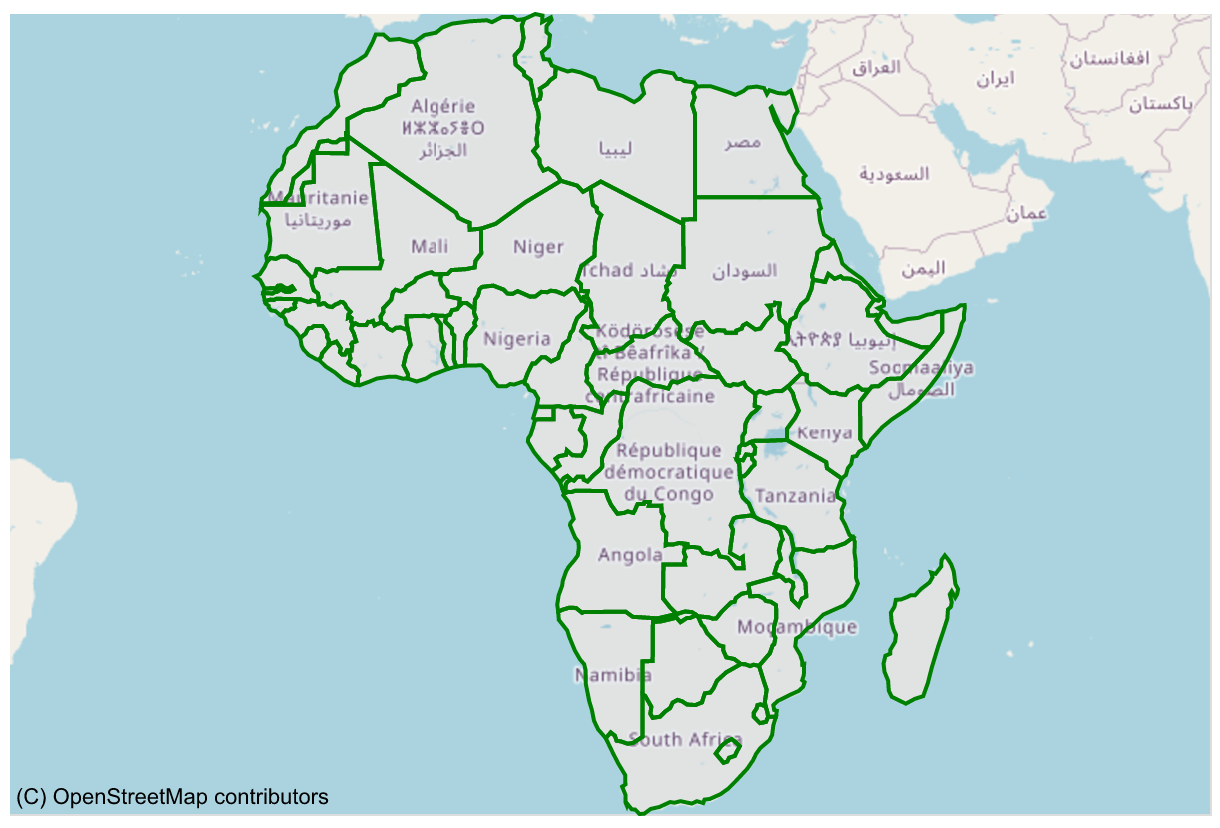
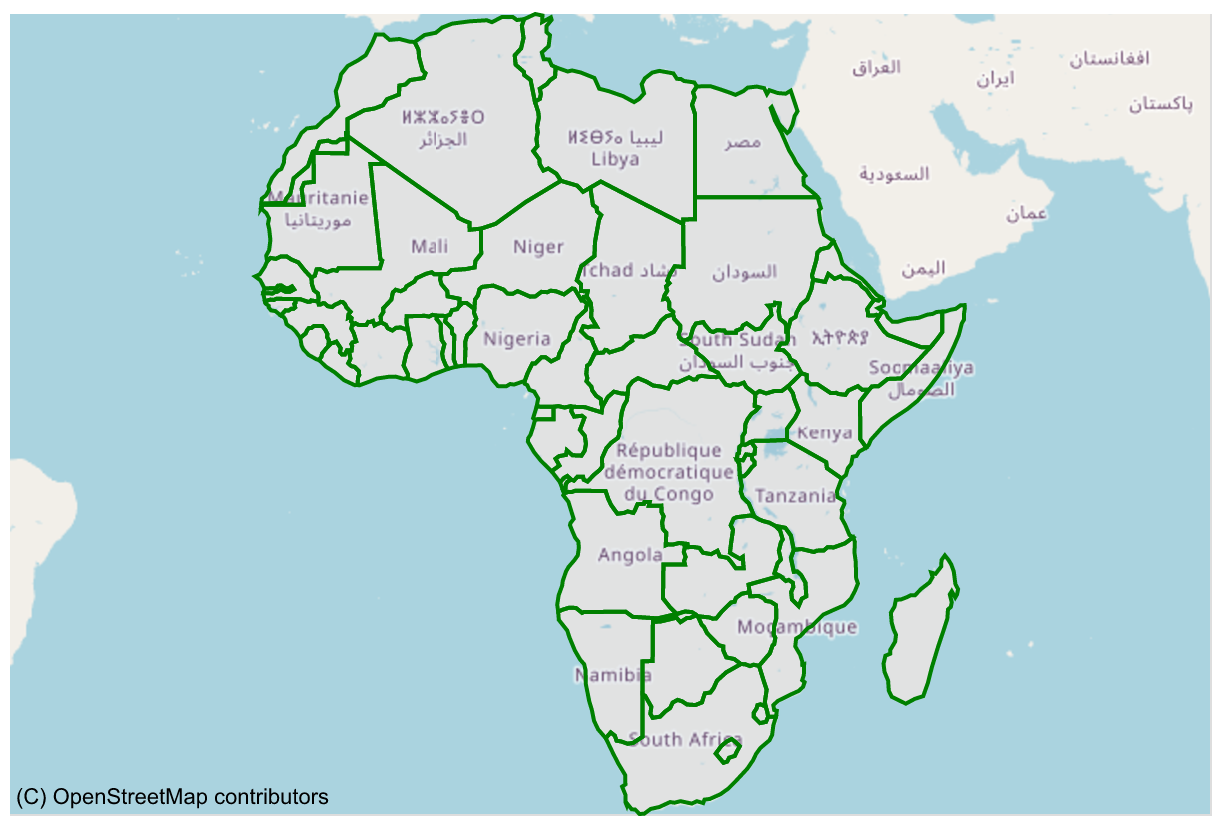
test(vega): freeze the map tiles in the map baselines
The geoScale and maptile_background specs embed their OpenStreetMap
tiles as PNG data URLs, so their image baselines no longer depend on
live tiles. The Vega importer decodes data URLs without an HTTP
fetcher.

diff --git a/avenger-vega-scenegraph/src/marks/image.rs b/avenger-vega-scenegraph/src/marks/image.rs
@@ -55,8 +55,7 @@ impl VegaMarkContainer<VegaImageItem> {
         let mut images: Vec<RgbaImage> = Vec::new();
         let mut zindex = Vec::<i32>::new();
 
-        // let client = Client::new();
-        let fetcher = make_image_fetcher()?;
+        let mut fetcher = None;
 
         for item in &self.items {
             x.push(item.x.unwrap_or(0.0));
@@ -72,11 +71,14 @@ impl VegaMarkContainer<VegaImageItem> {
                 item.url.clone()
             };
 
-            let diffuse_image = fetcher.fetch_image(&url)?;
-            let rgba_img = diffuse_image.to_rgba8();
-            let img_width = rgba_img.width();
-            let img_height = rgba_img.height();
-            images.push(RgbaImage::from_image(&rgba_img));
+            // Data URLs decode without a fetcher, so inline images work without network access.
+            if fetcher.is_none() && (url.starts_with("http://") || url.starts_with("https://")) {
+                fetcher = Some(make_image_fetcher()?);
+            }
+            let image = RgbaImage::from_str(&url, fetcher.clone())?;
+            let img_width = image.width;
+            let img_height = image.height;
+            images.push(image);
 
             // Push width/height
             width.push(item.width.unwrap_or(img_width as f32));
@@ -114,5 +116,40 @@ impl VegaMarkContainer<VegaImageItem> {
             indices,
             zindex: self.zindex,
         })))
+    }
+}
+
+#[cfg(test)]
+mod tests {
+    use super::*;
+
+    #[test]
+    fn imports_inline_png_with_intrinsic_and_explicit_dimensions() {
+        // Two pixels: opaque red and half-transparent green.
[1 lines of base64/hex data omitted]
+        let container = VegaMarkContainer {
+            items: vec![
+                VegaImageItem {
+                    url: url.to_string(),
+                    ..Default::default()
+                },
+                VegaImageItem {
+                    url: url.to_string(),
+                    width: Some(20.0),
+                    height: Some(10.0),
+                    ..Default::default()
+                },
+            ],
+            ..Default::default()
+        };
+        let SceneMark::Image(mark) = container.to_scene_graph(false).unwrap() else {
+            panic!("expected an image mark");
+        };
+        assert_eq!(mark.width.as_vec(2, None), vec![2.0, 20.0]);
+        assert_eq!(mark.height.as_vec(2, None), vec![1.0, 10.0]);
+        for image in mark.image.as_iter(2, None) {
+            assert_eq!((image.width, image.height), (2, 1));
+            assert_eq!(image.data, [255, 0, 0, 255, 0, 255, 0, 128]);
+        }
     }
 }

diff --git a/avenger-vega-test-data/README.md b/avenger-vega-test-data/README.md
@@ -2,9 +2,9 @@
 This is a binary crate responsible for generating image scenegraph and image test baselines for testing avenger renderers.
 
 From the project root
-```
+```sh
 cd avenger-vega-test-data
-cargo run
+cargo run --release
 ```
 
 ## How it works
@@ -13,11 +13,37 @@ For example: `avenger-vega-test-data/vega-specs/rect/stacked_bar.vg.json`.
 
 The main binary entry point scans this directory and for each Vega spec it uses 
 [`vl-convert-rs`](https://github.com/vega/vl-convert) to
-output the following three files in matching category directory under `avenger-vega-test-data/vega-scenegraphs`
+output the following two files in matching category directory under `avenger-vega-test-data/vega-scenegraphs`
  1. `{spec_name}.sg.json`: This is the JSON representation of the scenegraph that Vega generates for this Vega spec.
-   This corresponds to the vega scenegraph schema defined in the `avenger-vega` crate.
+   This corresponds to the Vega scenegraph schema defined in the `avenger-vega-scenegraph` crate.
  2. `{spec_name}.png`:  PNG rendering of the Vega spec as created by vl-convert. To generate this, vl-convert exports the
    chart to SVG and then renders the SVG to PNG using [resvg](https://github.com/RazrFalcon/resvg). This PNG image serves
    as the baseline that avenger rendered PNGs are compared to.
 
 Image baselines are tested in `avenger-wgpu/tests/test_image_baselines.rs`.
+
+## Fixed map tiles
+
+The `vl-convert/geoScale` and `vl-convert/maptile_background` specs embed their
+OpenStreetMap tiles as PNG data URLs in a `tile_images` dataset. A lookup joins
+the calculated tile URL to these fixed bytes. The generated scenegraphs contain
+the same data URLs, so baseline tests do not download map tiles.
+
+These fixtures cover the specs' initial view. If the tile calculation, viewport,
+or zoom changes, add any newly required tiles to `tile_images` before regenerating
+the references. Keep the original URL as the lookup key and in the accessible
+image description. Refresh both the PNG and scenegraph with vl-convert, using
+Vega/resvg to generate the reference PNG.
+
+The eight tiles were captured on 2026-09-11. Their source URLs are recorded in
+`tile_images`. Map images © OpenStreetMap contributors. See
+[OpenStreetMap copyright and attribution](https://www.openstreetmap.org/copyright).
+The specs retain their visible map attribution.
+
+The two references were regenerated with `vl-convert-python==1.8.0`, using
+`register_font_directory` for this crate's `fonts` directory, `vega_to_png` at
+scale 2, and `vega_to_scenegraph`. This uses the same vl-convert version as the
+Rust generator's lockfile. All remote URLs were disallowed during regeneration
+except the separately versioned `vega-datasets@v1.29.0` world topology used by
+`maptile_background`. The generated scenegraphs include the vector paths too,
+so rendering either map test needs no network access.
